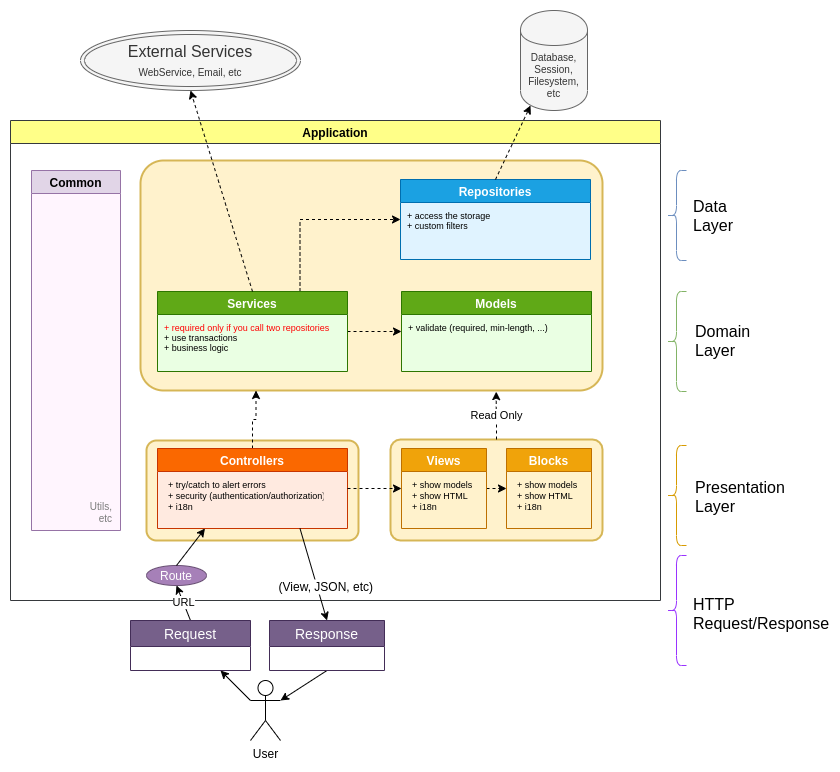
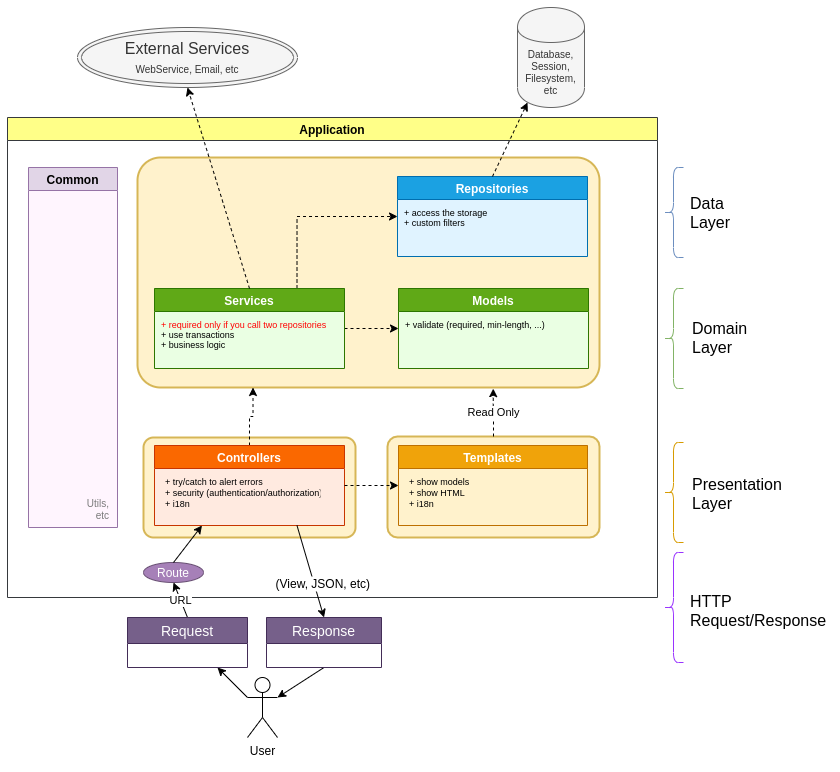
add 1.7

diff --git a/www/app/Controllers/ErrorsController.php b/www/app/Controllers/ErrorsController.php
@@ -2,9 +2,9 @@
 
 namespace App\Controllers;
 
-use Exception;
+use Throwable;
 use Win\Controllers\Controller;
-use Win\Views\View;
+use Win\Templates\View;
 
 /**
  * Páginas de Erros 
@@ -12,7 +12,7 @@ use Win\Views\View;
  */
 class ErrorsController extends Controller
 {
-	/** @var Exception */
+	/** @var Throwable */
 	public $error;
 
 	public function init()
@@ -20,7 +20,7 @@ class ErrorsController extends Controller
 		http_response_code(str_replace('_', '', $this->app->action));
 	}
 
-	public function _404(Exception $e)
+	public function _404(Throwable $e)
 	{
 		$this->title = 'Página não encontrada';
 		$this->error = $e;
@@ -28,12 +28,12 @@ class ErrorsController extends Controller
 		return new View('errors/404');
 	}
 
-	public function _503(Exception $e)
+	public function _500(Throwable $e)
 	{
 		$this->layout = null;
 		$this->title = 'Ocorreu um erro';
 		$this->error = $e;
 
-		return new View('errors/503');
+		return new View('errors/500');
 	}
 }

diff --git a/tests/www/app/Controllers/ContatoController.php b/tests/www/app/Controllers/ContatoController.php
@@ -3,13 +3,13 @@
 namespace App\Controllers;
 
 use Exception;
-use Win\Common\Email;
+use Win\Templates\Email;
 use Win\Controllers\Controller;
 use Win\Services\Mailer;
 use Win\Services\ReCaptcha;
 use Win\Services\Alert;
 use Win\Request\Input;
-use Win\Views\View;
+use Win\Templates\View;
 
 /**
  * Envia um formulário de contato via E-mail
@@ -45,7 +45,7 @@ class ContatoController extends Controller
 	public function index()
 	{
 		try {
-			if (Input::post('submit')) {
+			if (Input::isset('submit')) {
 				$this->validate();
 				
 				$mailer = new Mailer();

diff --git a/tests/phpunit/integration/Win/Templates/TemplateTest.php b/tests/phpunit/integration/Win/Templates/TemplateTest.php
@@ -1,6 +1,6 @@
 <?php
 
-namespace Win\Common;
+namespace Win\Templates;
 
 use PHPUnit\Framework\TestCase;
 
@@ -50,5 +50,14 @@ class TemplateTest extends TestCase
 
 		$this->assertEquals($vars['a'], $b->get('a'));
 		$this->assertEquals($vars['b'], $b->get('b'));
+	}
+
+	/** @expectedException Error */
+	public function testThrowError()
+	{
+		error_reporting(0);
+		$vars = ['a' => 1, 'b' => 2];
+		$t = new Template('basic/erro-view', $vars);
+		$t->__toString();
 	}
 }

diff --git a/tests/phpunit/integration/Win/ApplicationTest.php b/tests/phpunit/integration/Win/ApplicationTest.php
@@ -66,19 +66,6 @@ class ApplicationTest extends TestCase
 		$app->run(IndexController::class, 'actionNotFound');
 	}
 
-	public function testRunHttpException()
-	{
-		$code = 300;
-
-		ob_start();
-		$e = new HttpException('Fake Error', $code);
-		$app = new Application();
-		$app->run(IndexController::class, 'index', $e);
-		ob_get_clean();
-
-		$this->assertEquals((string) http_response_code(), $code);
-	}
-
 	public function testRun()
 	{
 		$app = new Application();

diff --git a/tests/phpunit/integration/Win/Request/InputTest.php b/tests/phpunit/integration/Win/Request/InputTest.php
@@ -19,6 +19,13 @@ class InputTest extends TestCase
 		$this->assertNull(Input::file('not-exist'));
 	}
 
+	public function testIsset()
+	{
+		$_POST['exist'] = 1;
+		$this->assertEquals(true, Input::isset('exist'));
+		$this->assertEquals(false, Input::isset('not-exist'));
+	}
+
 	public function testPost()
 	{
 		$_POST['not-exist'] = 1;

diff --git a/tests/www/app/Controllers/EmailController.php b/tests/www/app/Controllers/EmailController.php
@@ -2,11 +2,11 @@
 
 namespace App\Controllers;
 
-use Win\Common\Email;
+use Win\Templates\Email;
 use Win\Controllers\Controller;
 use Win\Services\Mailer;
 use Win\Services\Alert;
-use Win\Views\View;
+use Win\Templates\View;
 
 class EmailController extends Controller
 {

diff --git a/tests/www/app/Controllers/BasicController.php b/tests/www/app/Controllers/BasicController.php
@@ -2,10 +2,10 @@
 
 namespace App\Controllers;
 
-use App\Views\ClassView;
+use App\Templates\ClassView;
 use Win\Controllers\Controller;
 use Win\Services\Alert;
-use Win\Views\View;
+use Win\Templates\View;
 
 /**
  * Usado pelo PHPUnit

diff --git a/tests/www/app/Controllers/UploaderController.php b/tests/www/app/Controllers/UploaderController.php
@@ -7,7 +7,7 @@ use Win\Repositories\Filesystem\Image;
 use Win\Services\Alert;
 use Win\Repositories\Filesystem;
 use Win\Request\Input;
-use Win\Views\View;
+use Win\Templates\View;
 
 class UploaderController extends Controller
 {

diff --git a/tests/www/app/Controllers/PagesController.php b/tests/www/app/Controllers/PagesController.php
@@ -14,7 +14,7 @@ use Win\Services\Alert;
 use Win\Repositories\Database\Mysql;
 use Win\Repositories\Filesystem;
 use Win\Request\Input;
-use Win\Views\View;
+use Win\Templates\View;
 
 /**
  * pages => Pages@index

diff --git a/tests/phpunit/integration/Win/Services/MailerTest.php b/tests/phpunit/integration/Win/Services/MailerTest.php
@@ -3,7 +3,7 @@
 namespace Win\Services;
 
 use PHPUnit\Framework\TestCase;
-use Win\Common\Email;
+use Win\Templates\Email;
 use Win\Repositories\Filesystem;
 
 class MailerTest extends TestCase

diff --git a/tests/www/app/Controllers/MyModule/IndexController.php b/tests/www/app/Controllers/MyModule/IndexController.php
@@ -3,7 +3,7 @@
 namespace App\Controllers\MyModule;
 
 use Win\Controllers\Controller;
-use Win\Views\View;
+use Win\Templates\View;
 
 class IndexController extends Controller
 {

diff --git a/tests/www/app/Controllers/IndexController.php b/tests/www/app/Controllers/IndexController.php
@@ -3,7 +3,7 @@
 namespace App\Controllers;
 
 use Win\Controllers\Controller;
-use Win\Views\View;
+use Win\Templates\View;
 
 class IndexController extends Controller
 {
